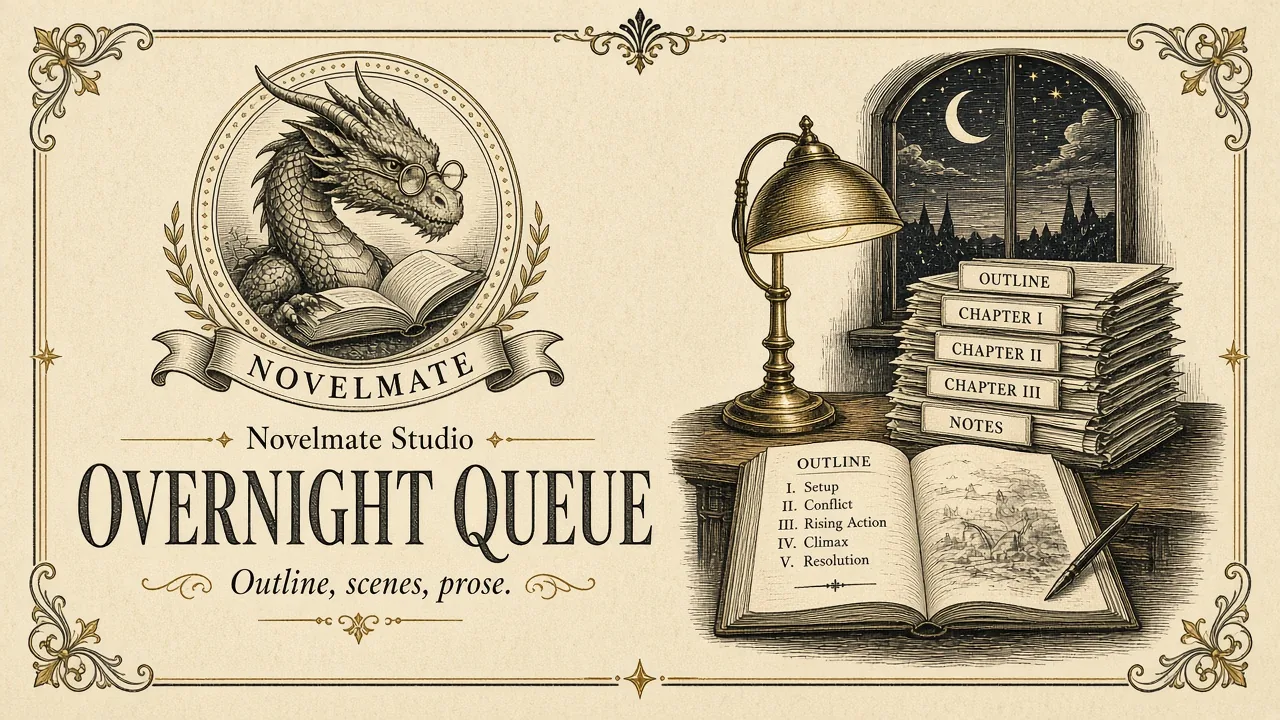
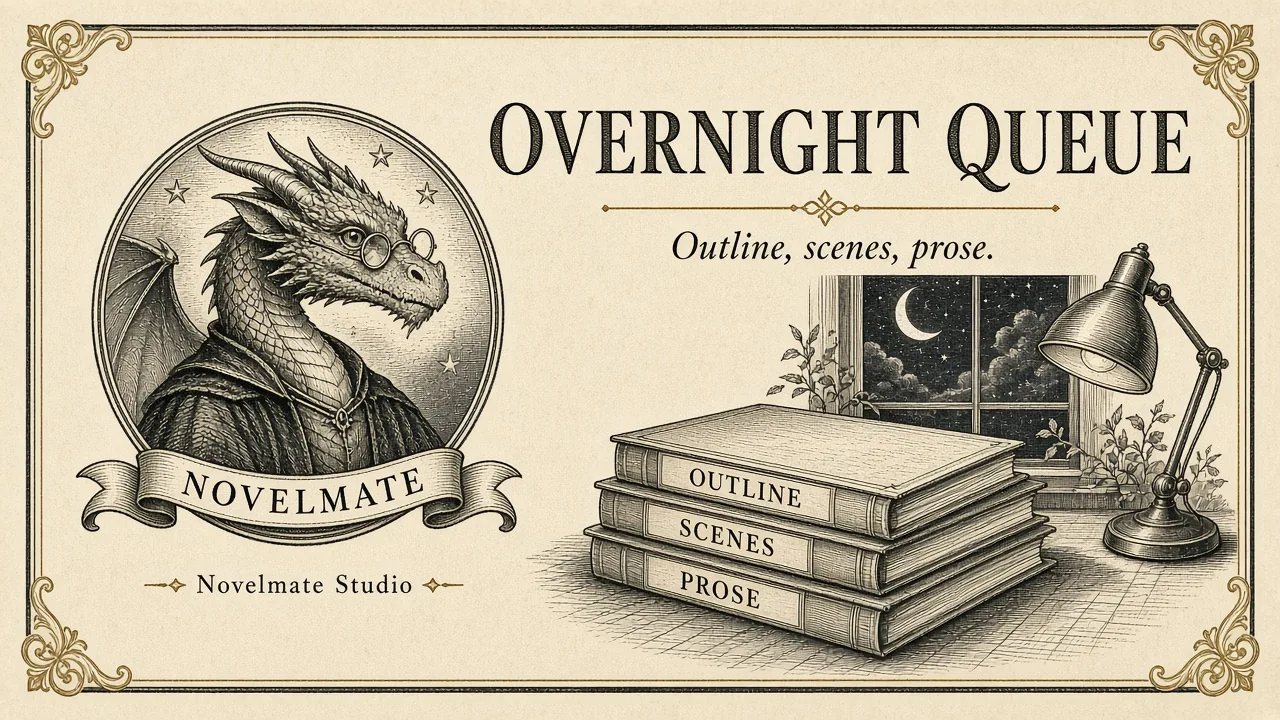
Redraw the overnight queue plate so the only labels are Outline, Scenes, and Prose.

diff --git a/public/index.html b/public/index.html
@@ -207,7 +207,7 @@
 
       <div class="card-grid two">
         <article class="card">
-          <img class="card-img" src="assets/marketing/plates/nm-plate-queue.webp" alt="Overnight queue of outlines, scenes, and prose" width="1280" height="720" loading="lazy" />
+          <img class="card-img" src="assets/marketing/plates/nm-plate-queue.webp?v=2" alt="Overnight queue of outlines, scenes, and prose" width="1280" height="720" loading="lazy" />
           <div class="card-body">
             <p class="tag-shipped">Shipped direction</p>
             <h3>Structured generation pipeline</h3>
